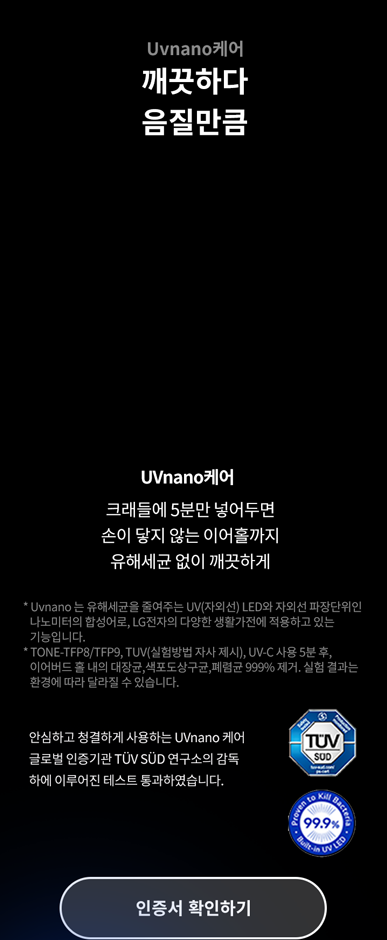
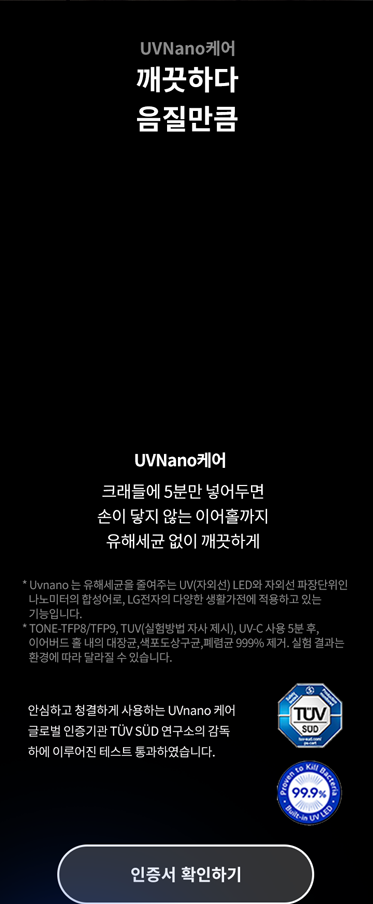
ing : 코딩 => 통이미지

diff --git a/index.html b/index.html
@@ -52,19 +52,27 @@
                 <div class="iw_placeholder" id="iw_placeholder1605685870705">
                     <!-- start -->
                     <div class="iw_component">
-                        <scction class="responsive sec_video sec_tone">
-                                <video autoplay="" muted="" loop="" class="pc" playsinline="true" style="background-color: rgb(0, 0, 0);">
+                        <scction class="responsive usp_0105 sec_video sec_tone">
+                            <div class="wrap_video">
+                                <video autoplay="" muted="" loop="" class="pc" playsinline="true" style="background: #000;">
                                     <source src="https://www.lge.co.kr/kr/images/smartphones/md08046020/usp/usp-MD08046020-18-c32-mp4.mp4" type="video/mp4">
                                 </video>
 
-                            <video autoplay="" muted="" loop="" class="mobile" playsinline="true" style="background-color: rgb(0, 0, 0);">
-                                <source src="https://www.lge.co.kr/kr/images/smartphones/md08046020/usp/usp-MD08046020-1-c32-m-mp4.mp4" type="video/mp4">
-                            </video>
+                                <video autoplay="" muted="" loop="" class="mobile" playsinline="true">
+                                    <source src="https://www.lge.co.kr/kr/images/smartphones/md08046020/usp/usp-MD08046020-1-c32-m-mp4.mp4" type="video/mp4">
+                                </video>
+                                <a href="javascript:;" data-modal-id="layer_set" class="btn_set" aria-label="톤프리 앱으로 설정해보기"></a>
 
-
-<!--                            <video width="100%" height="100%" class="v_replay" muted="" autoplay="autoplay" playsinline="">-->
-<!--                                <source src="https://image5.lge.co.kr/uploads/product/media/2020/09/lmf100n.asktik/usp_0201.mp4" type="video/mp4">-->
-<!--                            </video>-->
+                                <div class="layer_set" id="layer_set" data-modal>
+                                    <picture class="mediaImg">
+                                        <source media="(max-width: 767px)" srcset="./images/img_pop_set_m.png">
+                                        <img alt="" src="./images/img_pop_set.png">
+                                    </picture>
+                                    <button type="button" class="btn_close btn_layer_close">
+                                        <img alt="닫기" src="./images/btn_layer_close.png">
+                                    </button>
+                                </div>
+                            </div>
                         </scction>
                     </div>
 
@@ -94,7 +102,16 @@
                                 <source media="(max-width: 767px)" srcset="./images/img_usp_0204_m.png">
                                 <img alt="" src="./images/img_usp_0204.png">
                             </picture>
-                            <button type="button" class="btn_306" aria-label="306 플렉서블 이어젤의 비밀"></button>
+                            <a href="javascript:;" data-modal-id="layer_306" class="btn_306" aria-label="306 플렉서블 이어젤의 비밀"></a>
+
+                            <div class="layer_306" id="layer_306" data-modal>
+                                <picture class="mediaImg">
+                                    <source media="(max-width: 767px)" srcset="./images/img_pop_set_m.png">
+                                    <img alt="" src="./images/img_pop_306.png">
+                                </picture>
+                                <button type="button" class="btn_close btn_layer_close" aria-label="닫기"></button>
+                            </div>
+
                         </section>
                     </div>
                     <!-- //end -->
@@ -106,6 +123,19 @@
 
 <script>
     $(document).ready(function() {
+        const $layer_close = $('.btn_layer_close');
+
+        $('a[data-modal-id]').on('click', function (e) {
+            e.preventDefault();
+            // $layer_set.show();
+            const modalBox = $(this).attr('data-modal-id');
+            $("#" + modalBox).show();
+        });
+        $($layer_close).on('click', function () {
+            $(this).closest('[data-modal]').hide();
+        });
+
+
         var scrollChk = true;
         var idx = 0;
         var len = $('.v_replay').length;

diff --git a/style.css b/style.css
@@ -36,12 +36,61 @@
 
 
 @media only screen and (min-width: 768px) {
-    .responsive .col_half {display: table-cell;width: 50%;vertical-align: middle;}
-    .responsive .col_half.right {padding-left: 80px;}
+    /*.responsive .col_half {display: table-cell;width: 50%;vertical-align: middle;}*/
+    /*.responsive .col_half.right {padding-left: 80px;}*/
+    /*.responsive[class*="usp_"] .col_half:not(.right) {padding-left: 100px;}*/
+    /*.responsive[class*="usp_"].usp_0204 .col_half:not(.right) {padding-left: 0;}*/
+
+
+    .responsive video {display: block;width: 100%;height: auto;}
     .responsive video.mobile {display: none}
-    .responsive.usp_0201 {padding-bottom: 69px;}
-    .responsive[class*="usp_"] .col_half:not(.right) {padding-left: 100px;}
-    .responsive[class*="usp_"].usp_0204 .col_half:not(.right) {padding-left: 0;}
+    .responsive .wrap_video {position: relative; max-width: 1600px; margin: 0 auto;}
+
+    .responsive.usp_0105 .btn_set {
+        position: absolute;
+        right: 26%;
+        bottom: 10%;
+        width: 18.625%;
+        height: 7.777777%;
+        background: red;
+        opacity: 0.5;
+        z-index: 10;
+    }
+
+    .layer_set {
+        display: none;
+        position: absolute;
+        left: 50%;
+        top: 2px;
+        z-index: 11;
+        transform: translateX(-50%);
+    }
+
+    .layer_set .btn_close {
+        position: absolute;
+        bottom: 38px;
+        left: 50%;
+        margin-left: 368px;
+    }
+
+    .layer_306 {
+        display: none;
+        position: absolute;
+        left: 0;
+        top: 0;
+        z-index: 11;
+    }
+
+    .layer_306 .btn_close {
+        position: absolute;
+        bottom: 26.7%;
+        left: 56.5%;
+        width: 11.2%;
+        height: 8%;
+        background: red;
+        opacity: 0.5;
+        z-index: 10;
+    }
 
     .responsive.usp_0202 .btn_certi {
         position: absolute;
@@ -67,8 +116,8 @@
 
     .responsive.usp_0204 .btn_306 {
         position: absolute;
-        right: 23%;
-        bottom: 7.333333%;
+        right: 23.1%;
+        bottom: 9.533333%;
         width: 18.625%;
         height: 7.777777%;
         background: red;
@@ -118,7 +167,7 @@
         left: 15.2777%;
         bottom: 0;
         width: 69.16666%;
-        height: 6.9468%;
+        height: 6.6468%;
         background: red;
         opacity: 0.5;
         z-index: 10;
@@ -145,6 +194,39 @@
         opacity: 0.5;
         z-index: 10;
     }
+
+    .responsive .wrap_video {position: relative; max-width: 1600px; margin: 0 auto;}
+
+    .responsive.usp_0105 .btn_set {
+        position: absolute;
+        right: 26%;
+        bottom: 10%;
+        width: 18.625%;
+        height: 7.777777%;
+        background: red;
+        opacity: 0.5;
+        z-index: 10;
+    }
+
+    .layer_set {
+        display: none;
+        position: absolute;
+        left: 0;
+        top: 0;
+        z-index: 11;
+    }
+
+    .layer_set .btn_close {
+        position: absolute;
+        right: 28.5%;
+        bottom: 2.1%;
+        width: 40.825%;
+        height: 9.2%;
+        background: red;
+        opacity: 0.5;
+        z-index: 10;
+    }
+    .layer_set .btn_close img {display: none}
 }
 
 .sec_black .title .sub {color: #898989}
